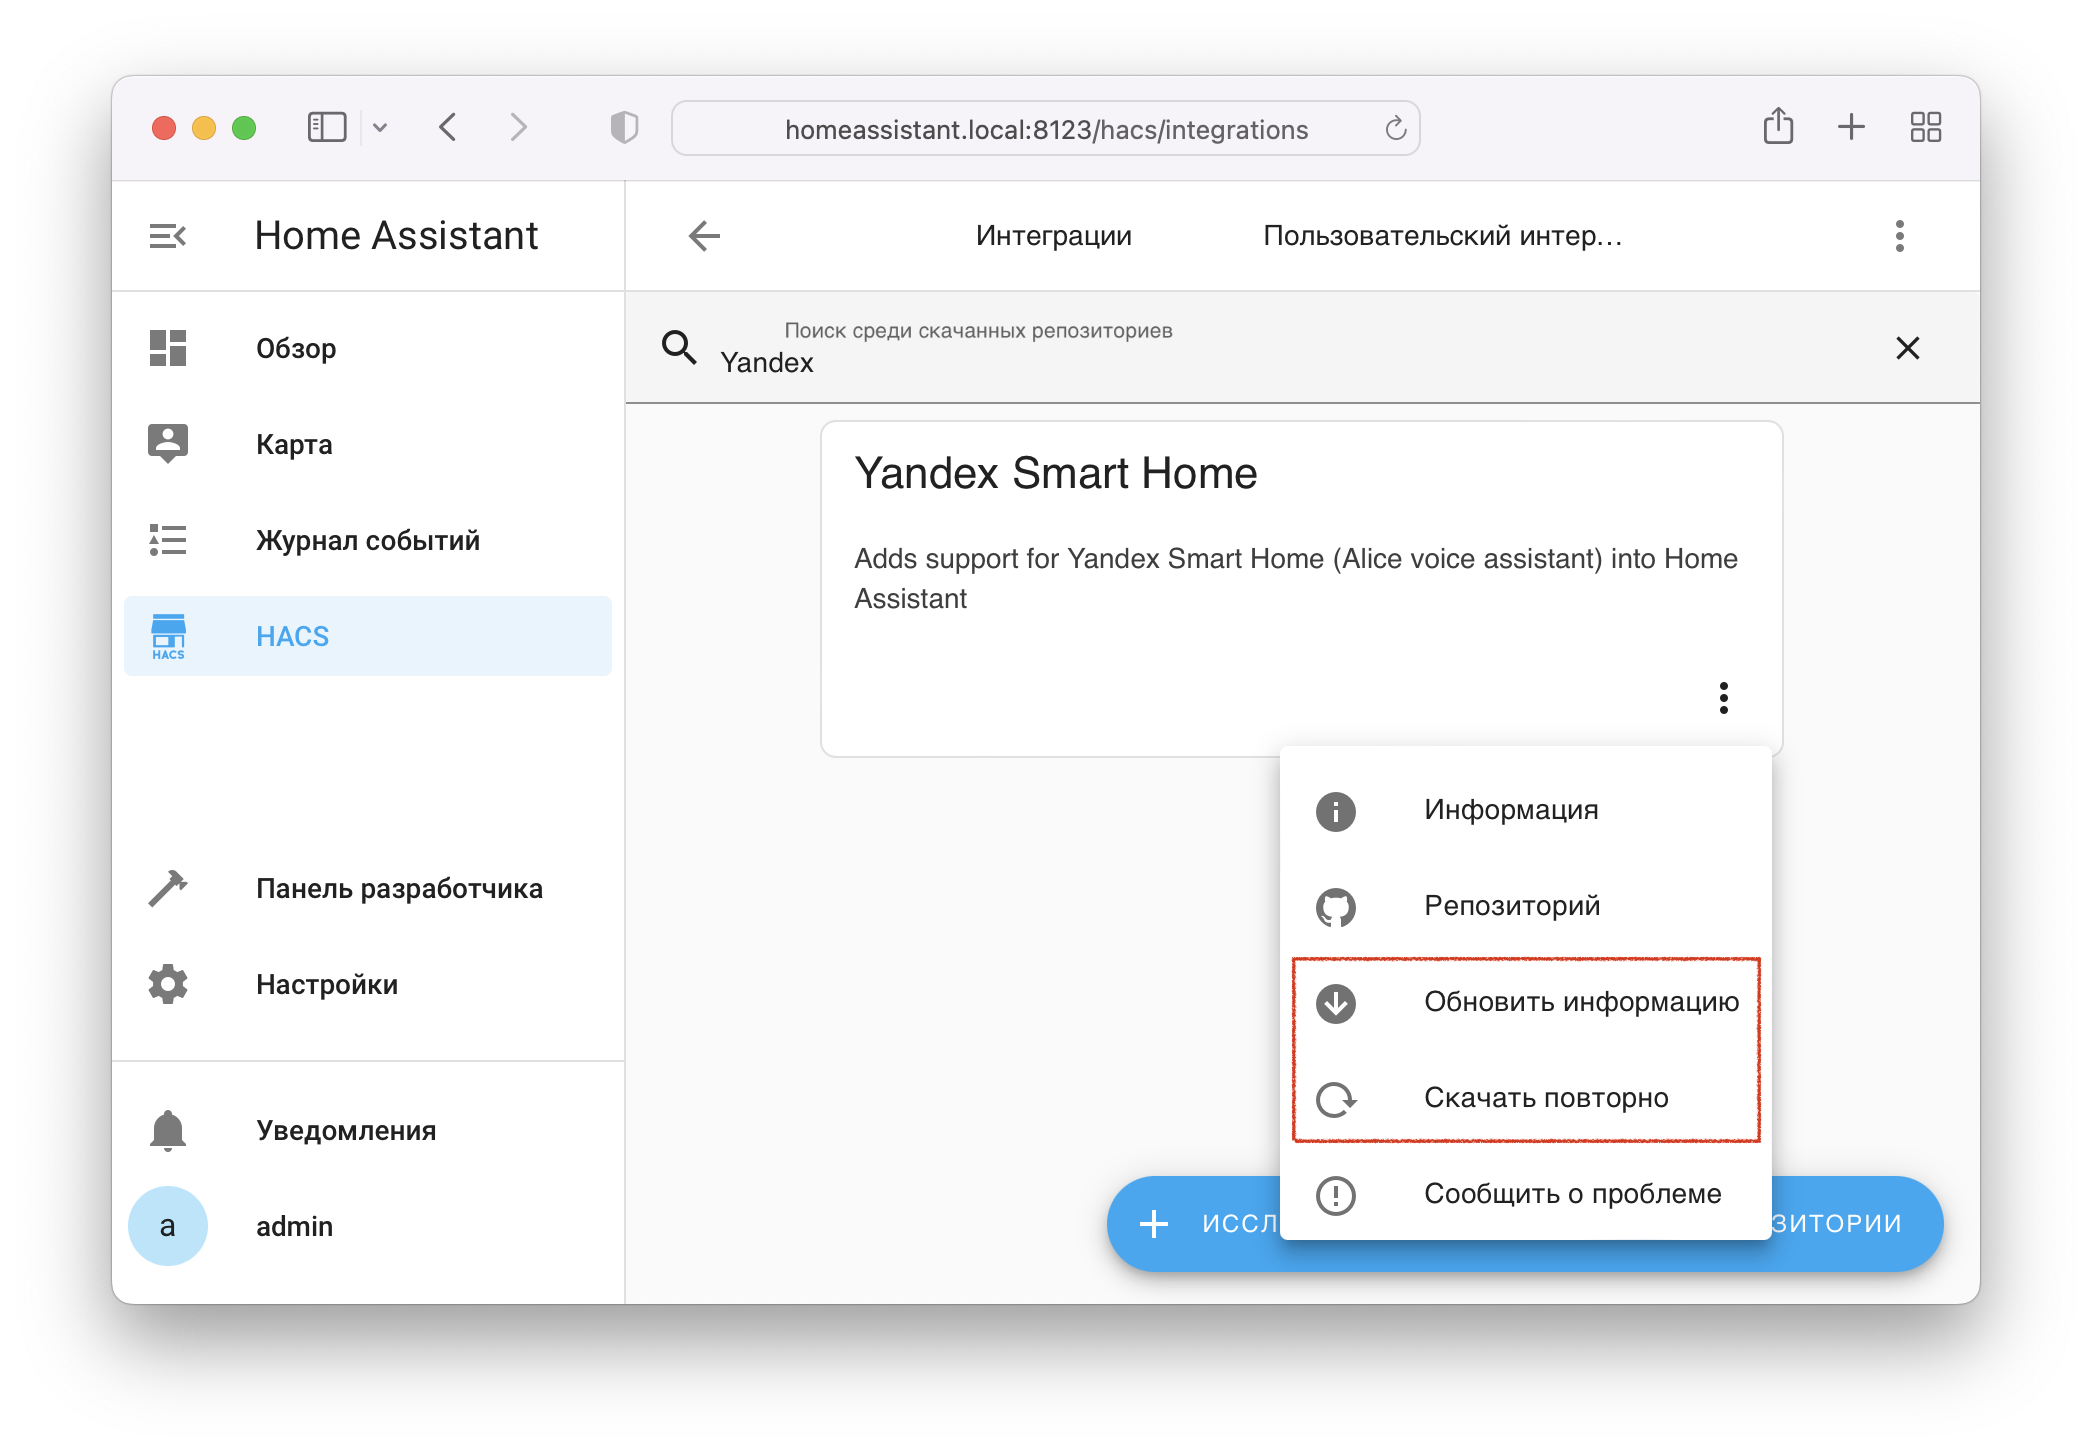
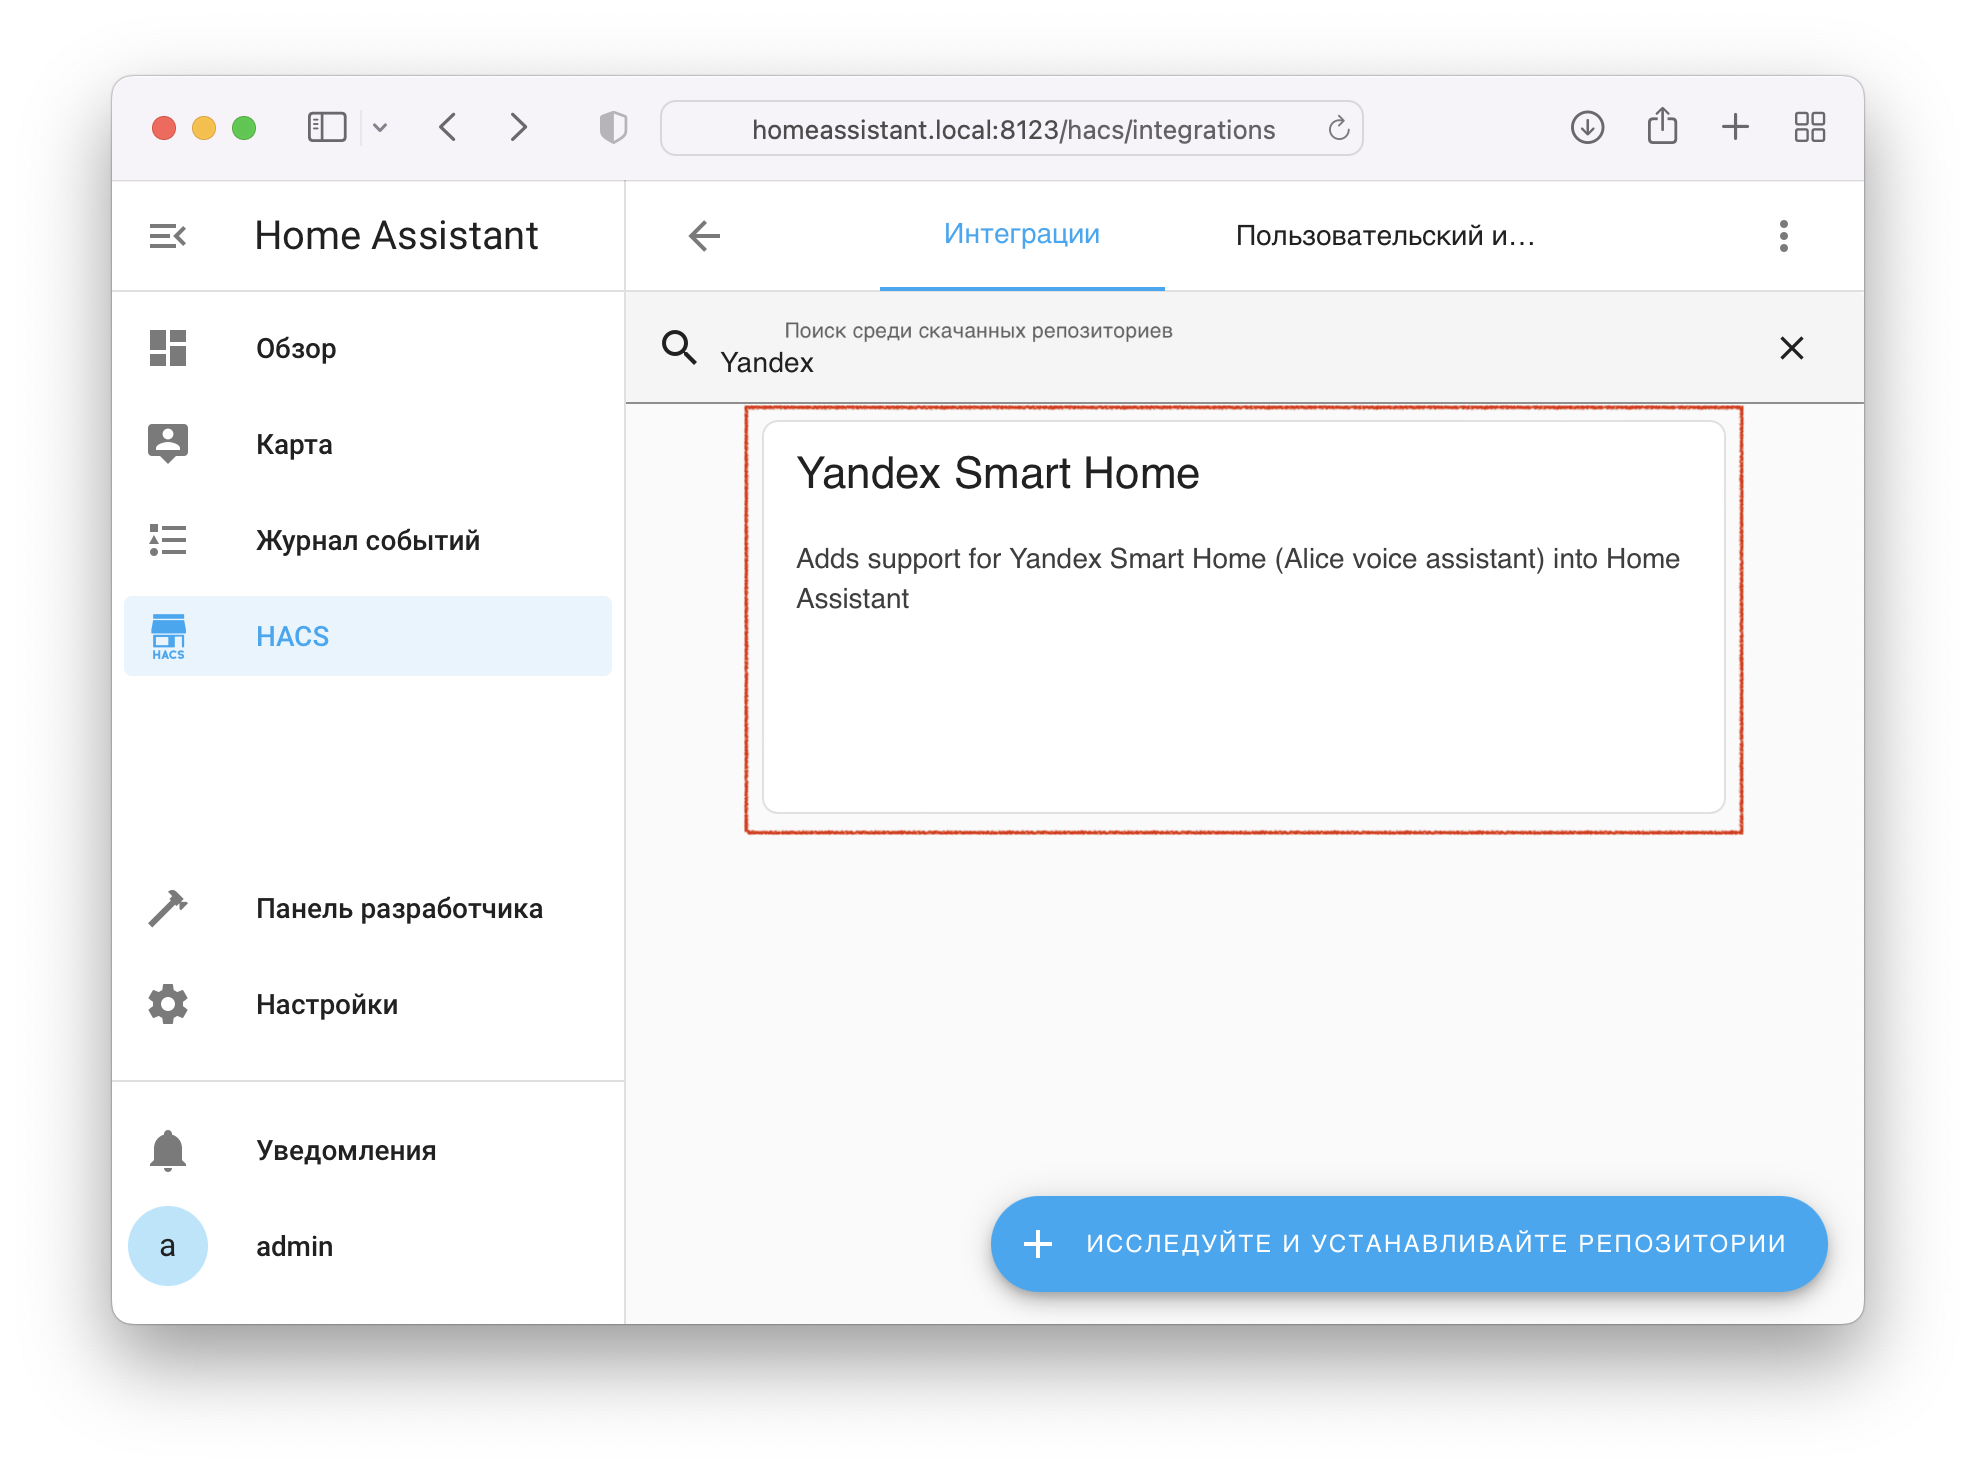
docs: Update HACS screenshots (skip ci, #403)

diff --git a/docs/install/component.md b/docs/install/component.md
@@ -16,9 +16,9 @@
 ## Переход на бета-версию { id=change-version }
 Для перехода на бета-версию компонента или установки другой версии:
 
-* Откройте HACS, найдите компонент `Yandex Smart Home`
-* Нажмите три точки в правом нижнем углу
-* Нажмите `Обновить информацию`, затем `Скачать заново`
+* Откройте HACS, найдите компонент `Yandex Smart Home` и кликните по нему
+* Нажмите три точки в правом верхнем углу
+* Нажмите `Обновить информацию`, затем `Скачать повторно`
 * Поставьте галочку `Показывать бета-версии` и выберите нужную версию
 * Перезапустите Home Assistant
 
@@ -27,3 +27,4 @@
 
 ![](../assets/images/install/reinstall-1.png){ width=750 }
 ![](../assets/images/install/reinstall-2.png){ width=750 }
+![](../assets/images/install/reinstall-3.png){ width=750 }
